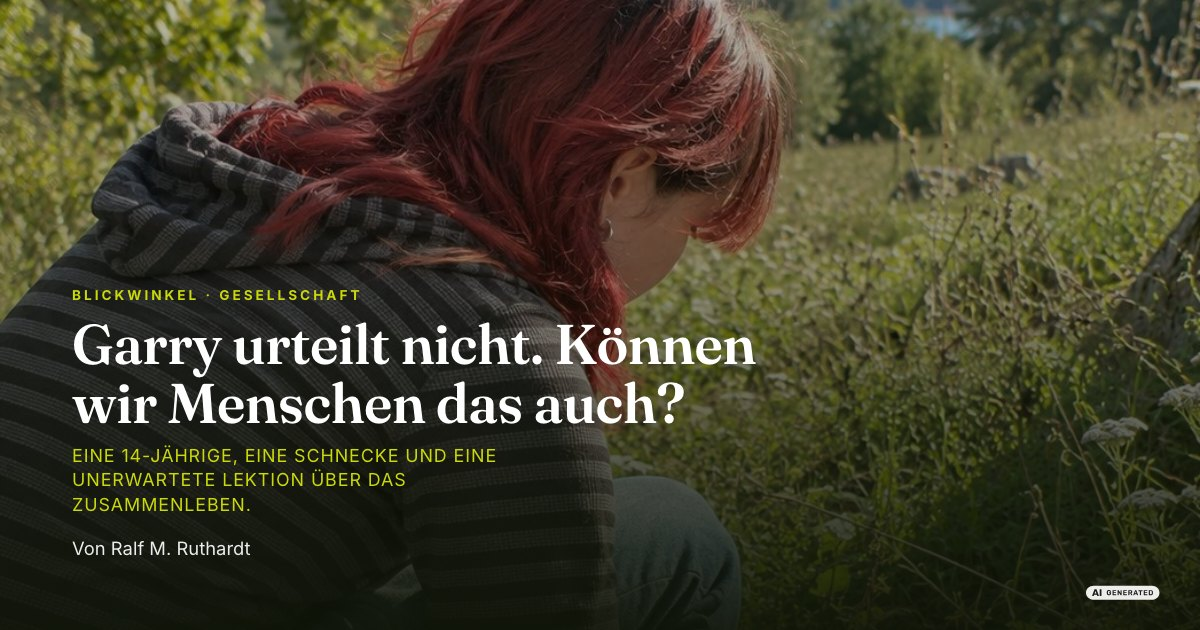
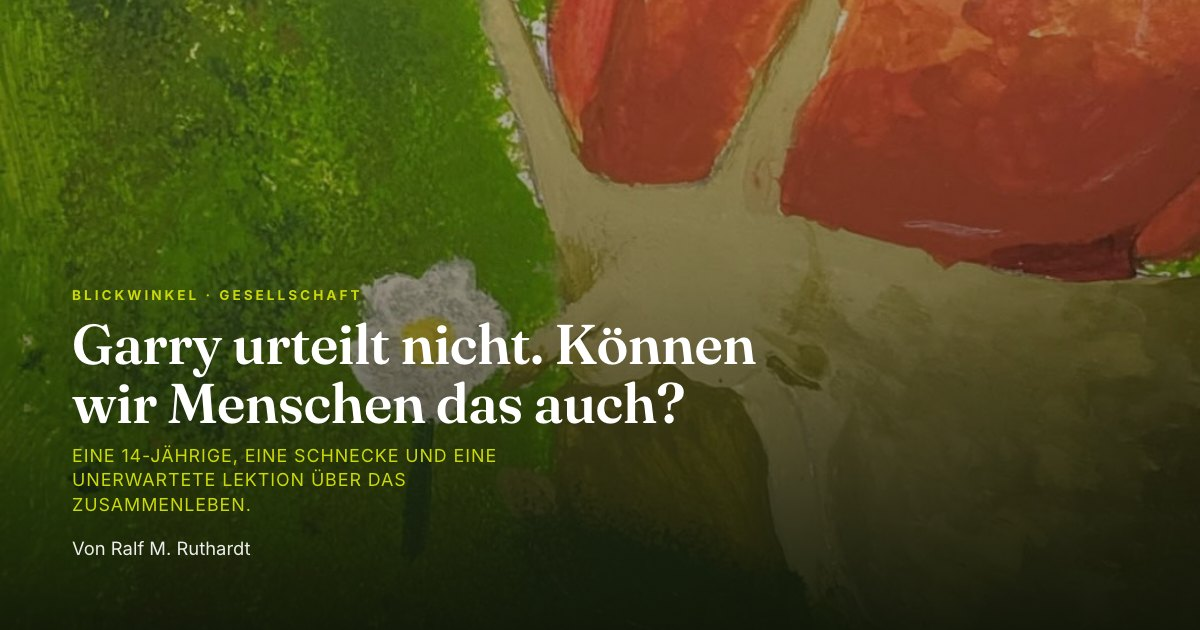
Spiegel: Garry mit neuem Titelbild

diff --git a/blickwinkel/garry.html b/blickwinkel/garry.html
@@ -40,7 +40,7 @@
 </header>
 
 <main>
-  <section class="beitrag-hero" style="background-image:url('../assets/beitraege/garry.jpg');background-position:center 35%">
+  <section class="beitrag-hero" style="background-image:url('../assets/beitraege/garry.jpg');background-position:center 50%">
     <div class="beitrag-hero__scrim"></div>
     <div class="wrap beitrag-hero__inner read">
       <div class="eyebrow">Blickwinkel · Gesellschaft</div>
@@ -48,7 +48,6 @@
       <p class="beitrag-hero__sub">Eine 14-Jährige, eine Schnecke und eine unerwartete Lektion über das Zusammenleben.</p>
       <p class="beitrag-hero__by">Von Ralf M. Ruthardt</p>
     </div>
-    <span class="beitrag-hero__ailabel"><img src="../assets/label-ai-generated.svg" alt="Mit KI erstellt" title="Dieses Bild wurde mit KI erstellt"></span>
   </section>
 
   <article class="section">

diff --git a/blickwinkel.html b/blickwinkel.html
@@ -74,7 +74,7 @@
         </a>
 
         <a class="card" href="blickwinkel/garry.html">
-          <div class="card__media"><img src="assets/beitraege/garry.jpg" alt="Garry urteilt nicht. Können wir Menschen das auch?" style="object-position:center 35%"></div>
+          <div class="card__media"><img src="assets/beitraege/garry.jpg" alt="Garry urteilt nicht. Können wir Menschen das auch?" style="object-position:center 50%"></div>
           <div class="card__eyebrow">Gesellschaft</div>
           <h3 class="card__title">Garry urteilt nicht. Können wir Menschen das auch?</h3>
           <div class="card__person">von Ralf M. Ruthardt</div>
